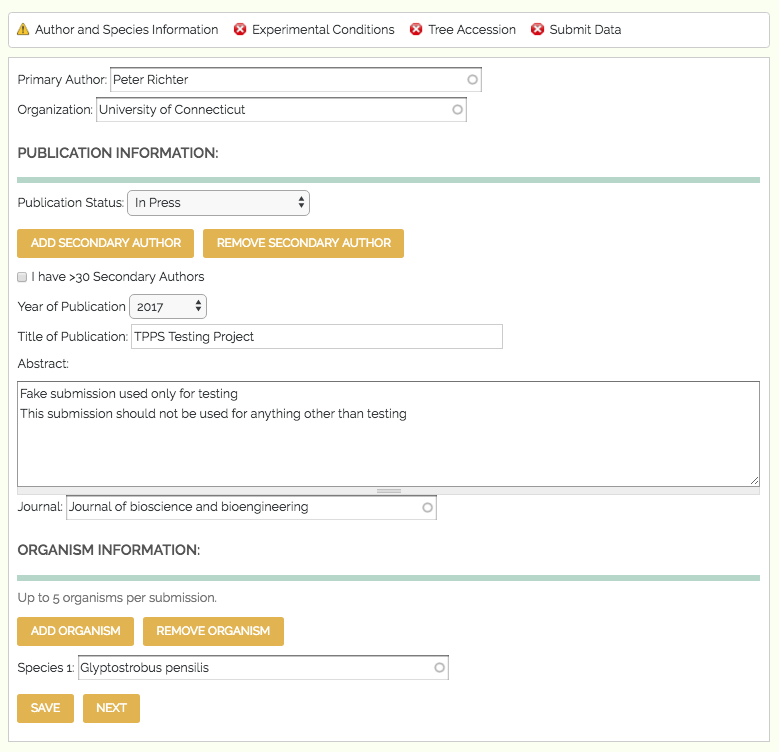
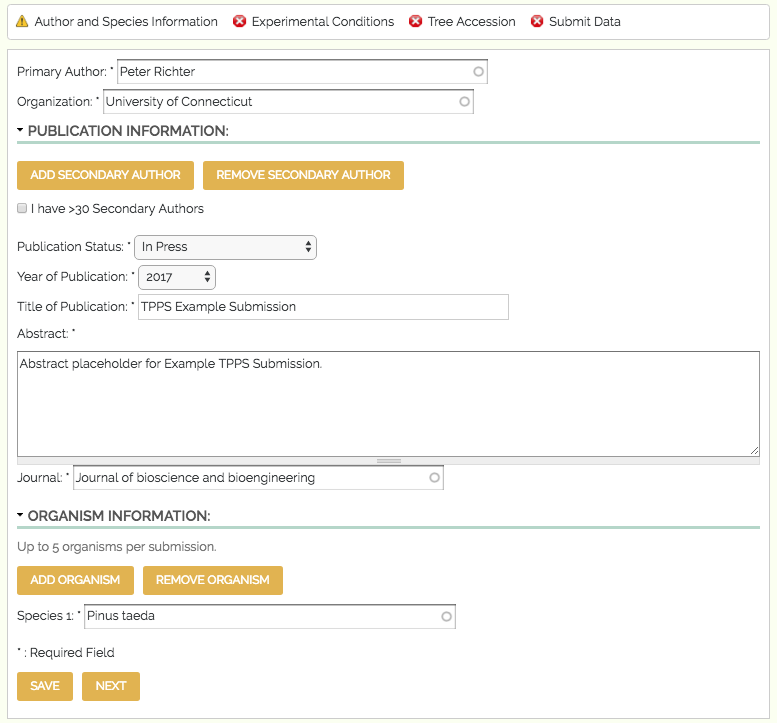
Update screenshots for pages 1 and 2.

Changed region(s): [[0.0, 0.0, 1.0, 1.0], [0.6178, 0.426, 0.6486, 0.4564]]

diff --git a/docs/source/admin_pages/page_2.rst b/docs/source/admin_pages/page_2.rst
@@ -24,6 +24,10 @@ The second set of fields in TPPS is the Study Design section, where users upload
 * Data Type: ``select`` - options 'Genotype', 'Genotype x Phenotype', 'Genotype x Environment', 'Genotype x Phenotype x Environment', 'Phenotype x Environment'
 * Study Type: ``select`` - options 'Natural Population (Landscape)', 'Growth Chamber', 'Greenhouse', 'Experimental/Common Garden', 'Plantation'
 
+A screenshot of the Study Date and Study Location fields can be seen below:
+
+.. image:: ../../../images/TPPS_exp_cond.png
+
 Natural Population
 ==================
 
@@ -31,6 +35,10 @@ Natural Population
 
   * Season: ``checkboxes`` -  options 'Spring', 'Summer', 'Fall', 'Winter'
   * Assessions: ``select`` - options '1' to '30'
+
+A screenshot of the Natural Population fields can be seen below:
+
+.. image:: ../../../images/TPPS_nat_pop.png
 
 Growth Chamber
 ==============
@@ -74,6 +82,10 @@ Growth Chamber
      * Treatments: ``checkboxes`` -  options 'Seasonal Environment', 'Air temperature regime', 'Soil Temperature regime', 'Antibiotic regime', 'Chemical administration', 'Disease status', 'Fertilizer regime', 'Fungicide regime', 'Gaseous regime', 'Gravity Growth hormone regime', 'Mechanical treatment', 'Mineral nutrient regime', 'Humidity regime', 'Non-mineral nutrient regime', 'Radiation (light, UV-B, X-ray) regime', 'Rainfall regime', 'Salt regime', 'Watering regime', 'Water temperature regime', 'Pesticide regime', 'pH regime', 'other perturbation'
      * Treatments Description: ``textfield`` - if an option from 'Treatments' is selected, users must provide a description of the treatment
 
+A screenshot of the Growth Chamber fields can be seen below:
+
+.. image:: ../../../images/TPPS_gro_cha.png
+
 Greenhouse
 ==========
 
@@ -110,6 +122,10 @@ Greenhouse
      * Treatments: ``checkboxes`` - options 'Seasonal Environment', 'Air temperature regime', 'Soil Temperature regime', 'Antibiotic regime', 'Chemical administration', 'Disease status', 'Fertilizer regime', 'Fungicide regime', 'Gaseous regime', 'Gravity Growth hormone regime', 'Mechanical treatment', 'Mineral nutrient regime', 'Humidity regime', 'Non-mineral nutrient regime', 'Radiation (light, UV-B, X-ray) regime', 'Rainfall regime', 'Salt regime', 'Watering regime', 'Water temperature regime', 'Pesticide regime', 'pH regime', 'other perturbation'
      * Treatments Description: ``textfield`` - if an option from 'Treatments' is selected, users must provide a description of the treatment
 
+A screenshot of the Greenhouse fields can be seen below:
+
+.. image:: ../../../images/TPPS_green.png
+
 Common Garden
 =============
 
@@ -134,6 +150,10 @@ Common Garden
   * Treatments: ``checkboxes`` - options 'Seasonal environment', 'Antibiotic regime', 'Chemical administration', 'Disease status', 'Fertilizer regime', 'Fungicide regime', 'Gaseous regime', 'Gravity Growth hormone regime', 'Herbicide regime', 'Mechanical treatment', 'Mineral nutrient regime', 'Non-mineral nutrient regime', 'Salt regime', 'Watering regime', 'Pesticide regime', 'pH regime', 'Other perturbation'
   * Treatments Description: ``textfield`` - if an option from 'Treatments' is selected, users must provide a description of the treatment
 
+A screenshot of the Common Garden fields can be seen below:
+
+.. image:: ../../../images/TPPS_com_gar.png
+
 Plantation
 ==========
 
@@ -144,6 +164,7 @@ Plantation
   * Treatments: ``checkboxes`` - options 'Seasonal environment', 'Antibiotic regime', 'Chemical administration', 'Disease status', 'Fertilizer regime', 'Fungicide regime', 'Gaseous regime', 'Gravity Growth hormone regime', 'Herbicide regime', 'Mechanical treatment', 'Mineral nutrient regime', 'Non-mineral nutrient regime', 'Salt regime', 'Watering regime', 'Pesticide regime', 'pH regime', 'Other perturbation'
   * Treatments Description: ``textfield`` - if an option from 'Treatments' is selected, users must provide a description of the treatment
 
-.. image:: ../../../images/TPPS_exp_cond.png
+A screenshot of the Plantation fields can be seen below:
 
+.. image:: ../../../images/TPPS_plant.png
 
